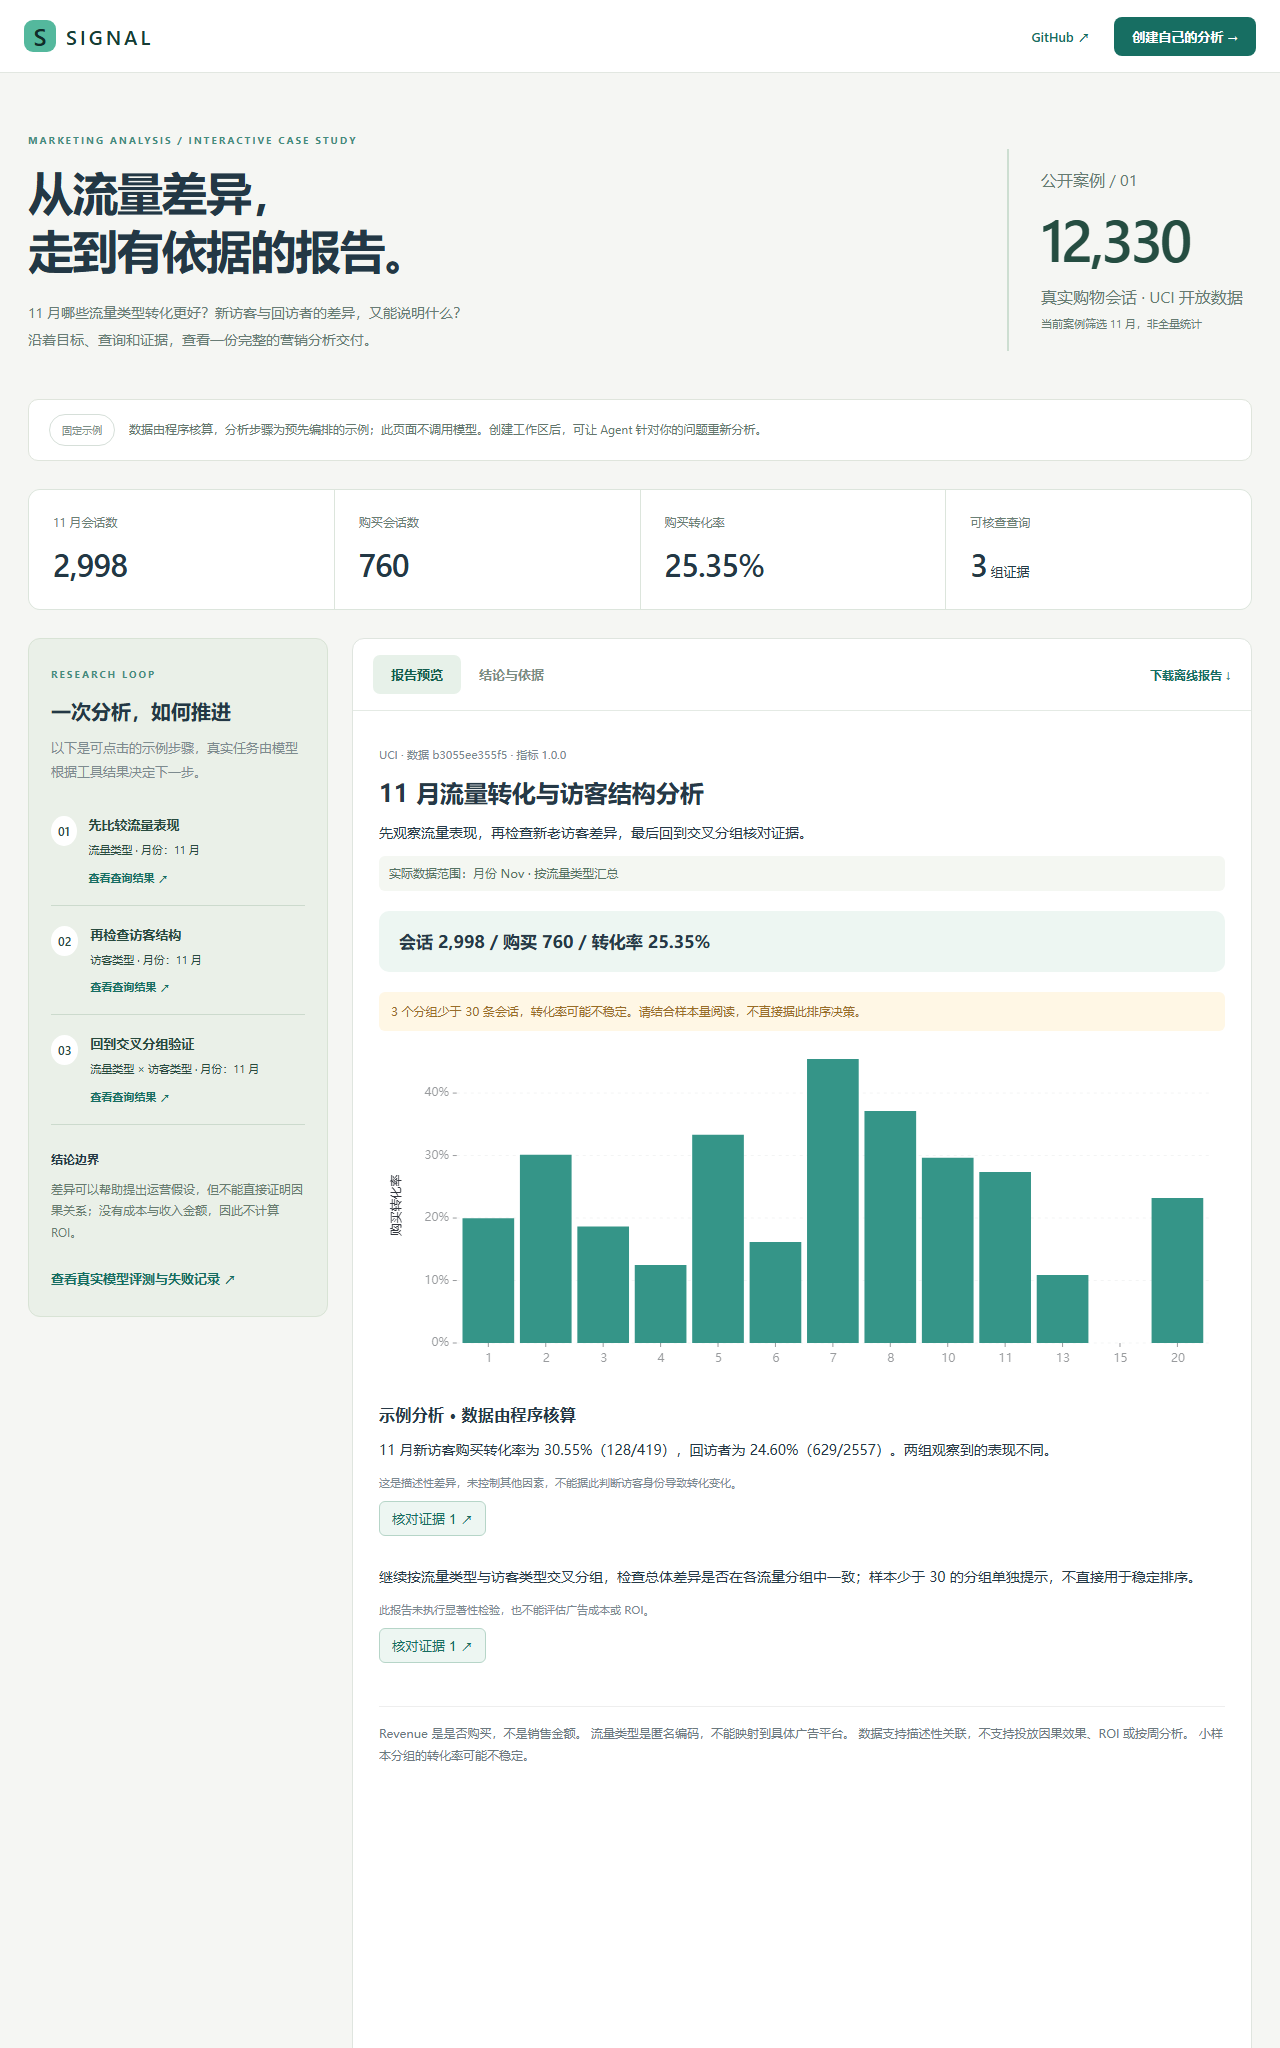
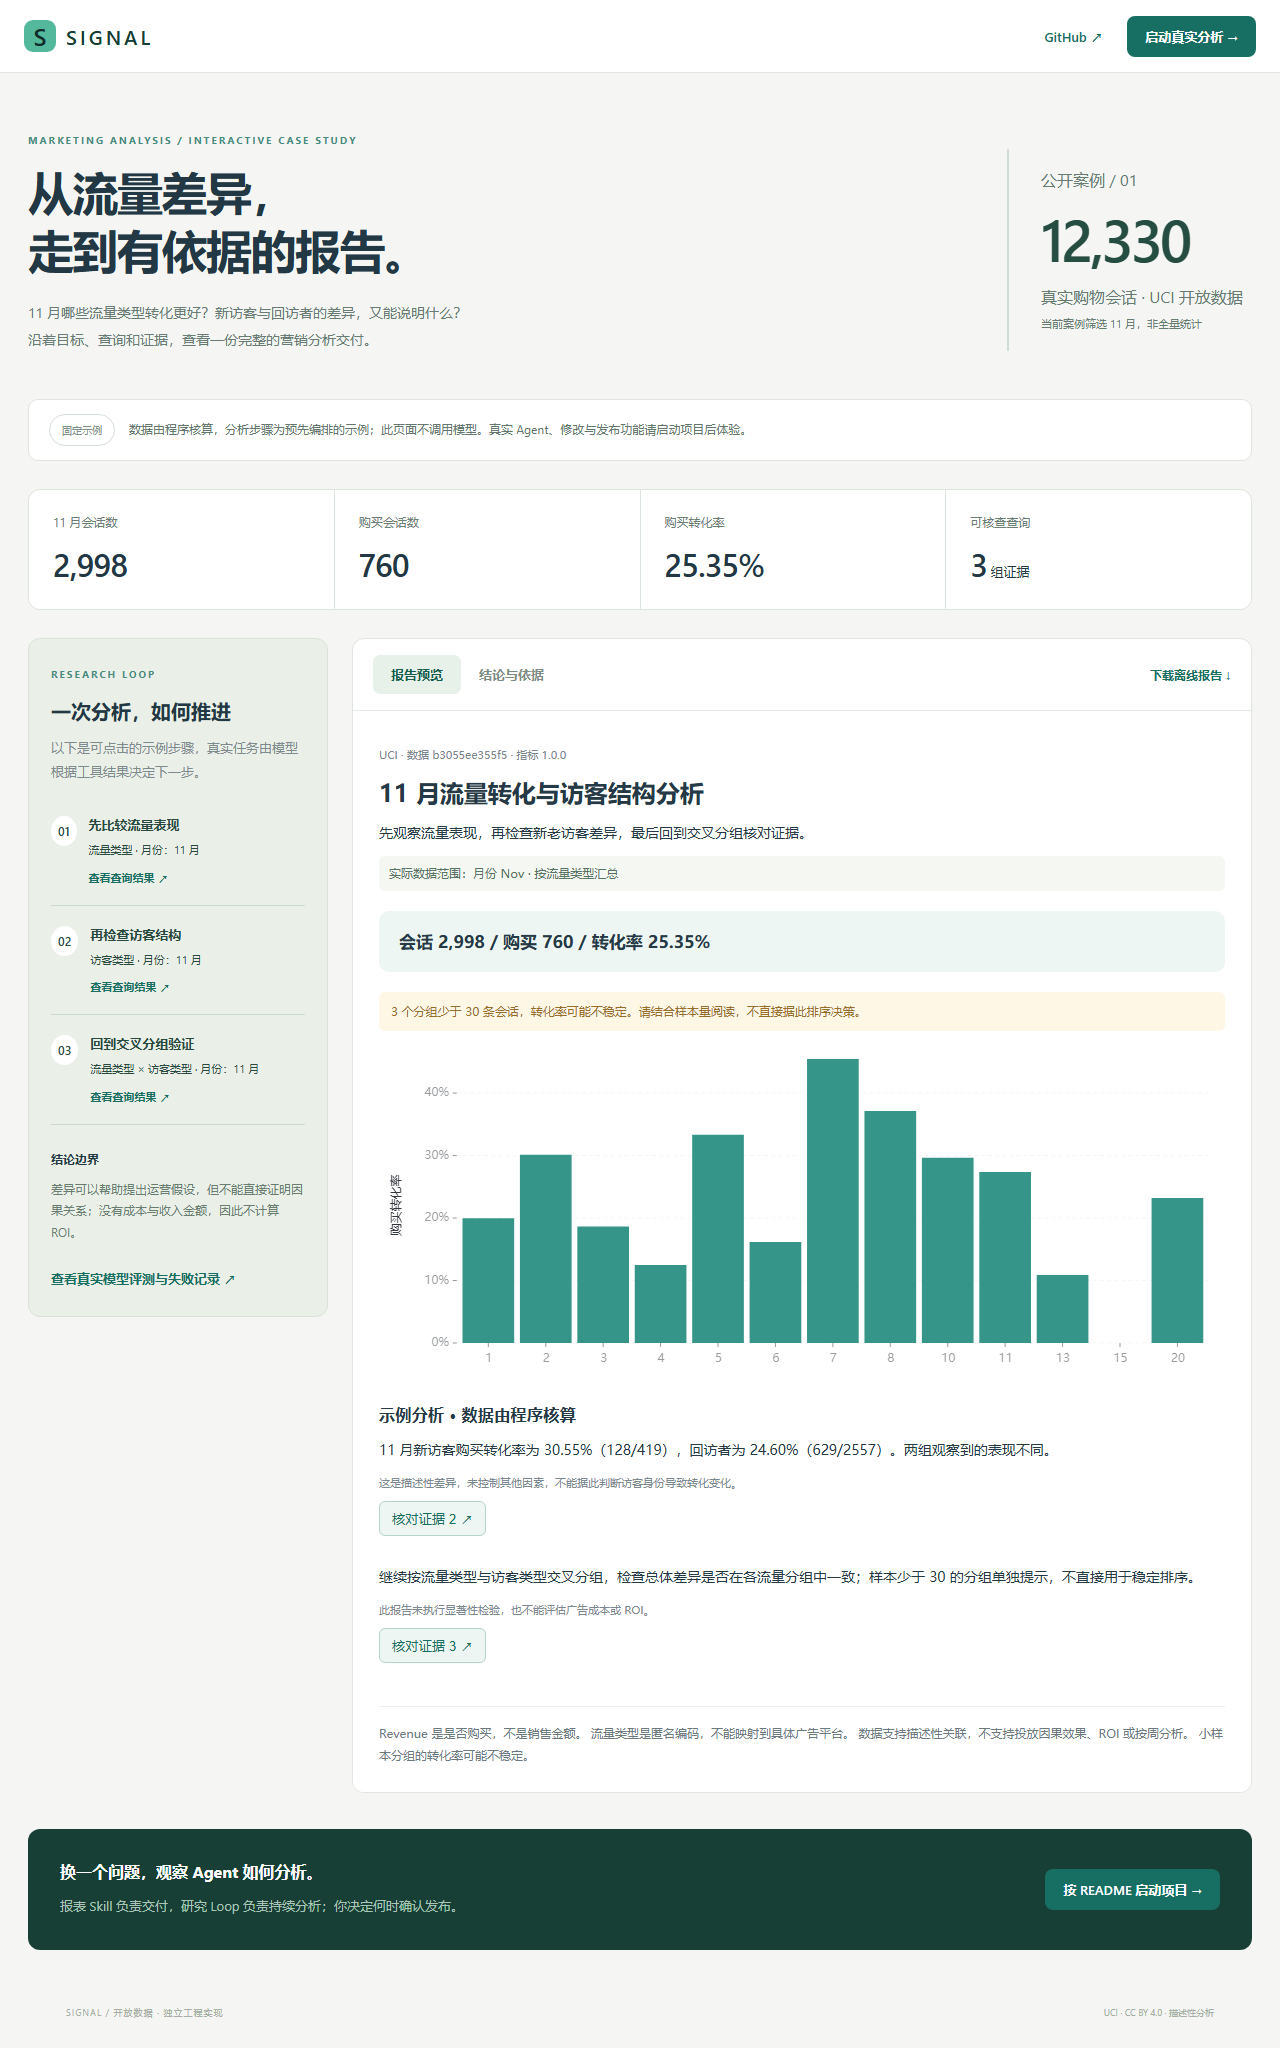
Document verified public experience and live report delivery [skip ci]

Changed region(s): [[0.0, 0.875, 1.0, 0.9688], [0.375, 0.1875, 0.5938, 0.2188], [0.8125, 0.0, 0.9375, 0.0312]]

diff --git a/docs/resume.md b/docs/resume.md
@@ -4,10 +4,12 @@
 
 背景：面向营销运营分析与报告交付，使用公开电商数据，构建报表 Skill 与多轮研究 Loop，提供执行追踪、故障测试和可复现评测。
 
-- **报表 Skill：**封装数据合同、受控 HTML 与 G2 配方，实现运行时取数、隔离预览、修改版本和人工确认发布，通过独立数值核验与浏览器测试检查交付链路。
+- **报表 Skill：**封装数据合同、受控 HTML 与 G2 配方，实现运行时取数、隔离预览、修改版本和人工确认发布；支持结论下钻查询证据、发布快照的 HTML / CSV 导出，通过独立数值核验与浏览器测试检查交付链路。
 - **研究 Loop：**持久化目标、假设、证据与结论，逐轮构建研究上下文，支持工具反馈、输入续接、无进展检测及预算停止。
 - **执行可靠性与评测：**实现数据库租约、检查点、幂等写入和事件追踪；以真实 PostgreSQL 验证并发领取及恢复，完成 86 次真实模型对照运行并公开失败案例。
 
-可引用的实测事实：31 项后端测试、2 项浏览器测试通过；181 个聚合结果通过独立 CSV 核验；两种版本均完成 40 个常规任务中的 38 个。注明样本与条件，不写“整体准确率 100%”或“成功率提升”。
+可引用的实测事实：体验完善后 33 项后端测试、3 项浏览器测试通过；此前固定集的 181 个聚合结果通过独立 CSV 核验，两种版本均完成 40 个常规任务中的 38 个。注明样本与条件，不写“整体准确率 100%”或“成功率提升”。
+
+作品展示：[在线交互案例](https://ovo-daisy28.github.io/marketing-analysis-agent/)。案例是程序核算的固定公开数据示例，适合展示交付体验；模型自主决策用真实运行轨迹和现场任务说明，不把静态案例说成正在运行的 Agent。
 
 原校企经历和此公开复现分别描述。该仓库采用 AI 辅助开发，能够解释需求取舍、核心实现、验证方法和已知不足，比声称每行代码都是手写更准确。原公司的规模、上线情况和业务收益不转移到此项目。

diff --git a/docs/validation.md b/docs/validation.md
@@ -1,5 +1,19 @@
 # 验证记录 · 2026-11-21
 
+## 体验完善后的验收
+
+代码提交 `3b63111`：新增免登录公开案例、业务化执行步骤、证据表格下钻、响应式报告高度、已发布 HTML / CSV 导出。
+
+- 后端 33 项测试通过，包含未发布导出拒绝、工作区隔离、证据关联、HTML 转义与 CSV 公式防护。
+- 浏览器 3 项测试通过，覆盖生成→修改→发布→下载、移动端登录，以及公开案例的图表、证据搜索、键盘关闭、下载与移动端适配。
+- 静态构建单独通过公开案例测试，不依赖 API、数据库或模型服务。
+- [云端工程检查](https://github.com/OvO-Daisy28/marketing-analysis-agent/actions/runs/44887684326)：backend、postgres-browser、containers 全部通过。
+- [GitHub Pages 构建与发布](https://github.com/OvO-Daisy28/marketing-analysis-agent/actions/runs/44887684386)通过；[在线案例](https://ovo-daisy28.github.io/marketing-analysis-agent/)提供固定公开数据展示。
+- 发布后直接针对公开 HTTPS 地址运行浏览器验收：图表、证据下钻、下载与移动端检查通过。
+- 真实模型交付用例：5 轮决策，全流程 22.47 秒，15,865 输入＋1,475 输出 Token；核对 11 月 2,998 条会话、760 次购买，未发布版本拒绝导出，发布后 HTML / CSV 成功导出。CSV 分子、分母汇总与独立预期一致，见 [验收记录](results/live-delivery-check.json)。这是单次联调，不是新的整体性能评测。
+
+本轮不改变模型 Prompt、工具决策或研究完成门禁，未重跑下方固定模型比较；没有将体验改动表述为模型准确率提升。线上案例是程序生成的固定示例，不能作为模型自主决策的证据。
+
 ## 已运行的检查
 
 | 检查 | 实测结果 |
